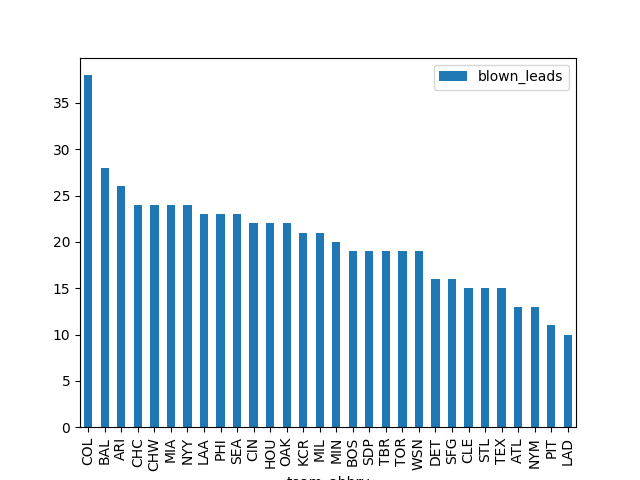
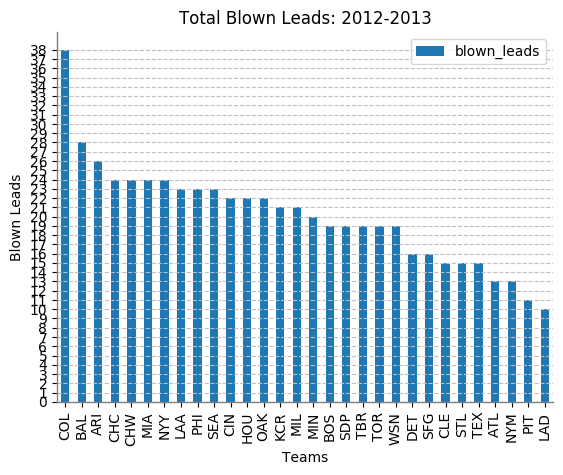
initial work on making charts look good

diff --git a/src/box_score_data_analysis.py b/src/box_score_data_analysis.py
@@ -23,24 +23,43 @@ for team in box_score_data:
             box_score_data_frame = box_score_data_frame.append(temp_data_frame)
 
 # number of total blown leads per team
+seasons = box_score_data_frame['season'].unique()
 aggregation_function = {'blown_leads': 'sum'}
+
 blown_leads_total_data = box_score_data_frame.groupby('team_abbrv').aggregate(aggregation_function)
 blown_leads_total_data = blown_leads_total_data.sort_values(by=['blown_leads', 'team_abbrv'], ascending=[False, True])
-blown_leads_total_data.plot.bar()
-plt.savefig('results/blown_leads_total_data_bar_chart.png')
 
+
+blown_leads_total_data_plot = blown_leads_total_data.plot(kind='bar')
+y_ticks = [tick for tick in range((blown_leads_total_data['blown_leads'].max()) + 1)]
+blown_leads_total_data_plot.spines['right'].set_visible(False)
+blown_leads_total_data_plot.spines['top'].set_visible(False)
+blown_leads_total_data_plot.spines['left'].set_edgecolor('0.5')
+blown_leads_total_data_plot.spines['left'].set_linewidth(1)
+blown_leads_total_data_plot.spines['bottom'].set_edgecolor('0.5')
+blown_leads_total_data_plot.spines['bottom'].set_linewidth(1)
+plt.title(f'Total Blown Leads: {seasons[0]}-{seasons[-1]}')
+plt.xlabel('Teams')
+plt.ylabel('Blown Leads')
+plt.yticks(y_ticks)
+plt.grid(True, color='0.75', linestyle='--', which='both', axis='y')
+plt.savefig('results/blown_leads_total_data_bar_chart.png', bbox_inches='tight')
+
+# TODOTODOTODO
 # number of total blown leads per team per season
 seasons = box_score_data_frame['season'].unique()
-blown_leads_all_seasons = pd.DataFrame()
+blown_leads_all_seasons_data = pd.DataFrame()
 
 for season in seasons:
     blown_leads_single_season = box_score_data_frame.where(box_score_data_frame['season'] == season).dropna()
     blown_leads_single_season['team_abbrv'] = blown_leads_single_season['team_abbrv'].apply(lambda x: f'{x}_{season}')
     aggregation_function = {'blown_leads': 'sum'}
     blown_leads_single_season = blown_leads_single_season.groupby('team_abbrv').aggregate(aggregation_function)
-    blown_leads_all_seasons = blown_leads_all_seasons.append(blown_leads_single_season)
-blown_leads_all_seasons = blown_leads_all_seasons.sort_values(by=['blown_leads', 'team_abbrv'], ascending=[False, True])
-blown_leads_all_seasons.plot.bar()
+    blown_leads_all_seasons_data = blown_leads_all_seasons_data.append(blown_leads_single_season)
+
+blown_leads_all_seasons_data = blown_leads_all_seasons_data.sort_values(by=['blown_leads', 'team_abbrv'], ascending=[False, True])
+blown_leads_all_seasons_data_plot = blown_leads_all_seasons_data.plot(kind='bar')
+# blown_leads_all_seasons_data_plot = blown_leads_all_seasons_data.iloc[0:50].plot(kind='bar')
 plt.savefig('results/blown_leads_all_seasons_bar.png')
 
 # range of blown leads for the league (with team id)
@@ -72,43 +91,82 @@ blown_leads_all_seasons_dict = {}
 blown_leads_all_seasons_dict['mean'] = blown_leads_total_data['blown_leads'].mean()
 blown_leads_all_seasons_dict['mode'] = blown_leads_total_data['blown_leads'].mode()[0]
 blown_leads_all_seasons_dict['median'] = blown_leads_total_data['blown_leads'].median()
-blown_leads_total_data.plot.box()
+blown_leads_total_data_plot = blown_leads_total_data.plot(kind='box')
+y_ticks = [tick for tick in range((blown_leads_total_data['blown_leads'].max()) + 1)]
+blown_leads_total_data_plot.spines['right'].set_visible(False)
+blown_leads_total_data_plot.spines['top'].set_visible(False)
+blown_leads_total_data_plot.spines['left'].set_edgecolor('0.5')
+blown_leads_total_data_plot.spines['left'].set_linewidth(1)
+blown_leads_total_data_plot.spines['bottom'].set_edgecolor('0.5')
+blown_leads_total_data_plot.spines['bottom'].set_linewidth(1)
+plt.title(f'Total Blown Leads: {seasons[0]}-{seasons[-1]}')
+plt.xlabel('All Teams')
+# hide the x tick label
+blown_leads_total_data_plot.set_xticklabels('')
+plt.ylabel('Blown Leads')
+plt.yticks(y_ticks)
+plt.grid(True, color='0.75', linestyle='--', which='both', axis='y')
 plt.savefig('results/blown_leads_total_data_box_plot.png')
 
 # mean, median, mode, range of blown leads for the league per season
-seasons = box_score_data_frame['season'].unique()
+seasons = list(box_score_data_frame['season'].unique())
 teams = box_score_data_frame['team_abbrv'].unique()
-blown_leads_per_season_box_plot_data = pd.DataFrame(index=teams)
+blown_leads_per_season_data = pd.DataFrame(index=teams)
 blown_leads_per_season_dict = {}
 
 for season in seasons:
     # dataframe stuff
-    blown_leads_single_season_box_plot_data = box_score_data_frame.where(box_score_data_frame['season'] == season).dropna()
+    blown_leads_single_season_data = box_score_data_frame.where(box_score_data_frame['season'] == season).dropna()
     aggregation_function = {'blown_leads': 'sum'}
-    blown_leads_single_season_box_plot_data = blown_leads_single_season_box_plot_data.groupby('team_abbrv').aggregate(aggregation_function)
-    blown_leads_single_season_box_plot_data = blown_leads_single_season_box_plot_data.rename(columns={'blown_leads': f'blown_leads_{season}'})
-    blown_leads_per_season_box_plot_data = blown_leads_per_season_box_plot_data.merge(blown_leads_single_season_box_plot_data, left_index=True, right_index=True)
+    blown_leads_single_season_data = blown_leads_single_season_data.groupby('team_abbrv').aggregate(aggregation_function)
+    blown_leads_single_season_data = blown_leads_single_season_data.rename(columns={'blown_leads': f'Blown Leads {season}'})
+    blown_leads_per_season_data = blown_leads_per_season_data.merge(blown_leads_single_season_data, left_index=True, right_index=True)
 
     # stats dict stuff
     season_stats_dict = {}
-    mean_blown_leads = blown_leads_single_season_box_plot_data[f'blown_leads_{season}'].mean()
-    mode_blown_leads = blown_leads_single_season_box_plot_data[f'blown_leads_{season}'].mode()[0]
-    median_blown_leads = blown_leads_single_season_box_plot_data[f'blown_leads_{season}'].median()
+    mean_blown_leads = blown_leads_single_season_data[f'Blown Leads {season}'].mean()
+    mode_blown_leads = blown_leads_single_season_data[f'Blown Leads {season}'].mode()[0]
+    median_blown_leads = blown_leads_single_season_data[f'Blown Leads {season}'].median()
     season_stats_dict['mean'] = mean_blown_leads
     season_stats_dict['mode'] = mode_blown_leads
     season_stats_dict['median'] = median_blown_leads
     blown_leads_per_season_dict[season] = season_stats_dict
 
-blown_leads_per_season_box_plot_data.plot.box()
+blown_leads_per_season_data_plot = blown_leads_per_season_data.plot(kind='box')
+blown_leads_per_season_data_plot.spines['right'].set_visible(False)
+blown_leads_per_season_data_plot.spines['top'].set_visible(False)
+blown_leads_per_season_data_plot.spines['left'].set_edgecolor('0.5')
+blown_leads_per_season_data_plot.spines['left'].set_linewidth(1)
+blown_leads_per_season_data_plot.spines['bottom'].set_edgecolor('0.5')
+blown_leads_per_season_data_plot.spines['bottom'].set_linewidth(1)
+plt.title(f'Total Blown Leads for each Season: {seasons[0]}-{seasons[-1]}')
+plt.xlabel('Seasons')
+blown_leads_per_season_data_plot.set_xticklabels(seasons)
+plt.ylabel('Blown Leads')
+plt.yticks(y_ticks)
+plt.grid(True, color='0.75', linestyle='--', which='both', axis='y')
 plt.savefig('results/blown_leads_per_season_box_plot.png')
 
-# mean, median, mode, range of of blown leads for STL
-stl_blown_leads_plot_data = pd.DataFrame(blown_leads_per_season_box_plot_data.loc['STL'])
-stl_blown_leads_plot_data.plot.box()
+# mean, median, mode, range of blown leads for STL
+stl_blown_leads_data = pd.DataFrame(blown_leads_per_season_data.loc['STL'])
+stl_blown_leads_data_plot = stl_blown_leads_data.plot(kind='box')
+
+stl_blown_leads_data_plot.spines['right'].set_visible(False)
+stl_blown_leads_data_plot.spines['top'].set_visible(False)
+stl_blown_leads_data_plot.spines['left'].set_edgecolor('0.5')
+stl_blown_leads_data_plot.spines['left'].set_linewidth(1)
+stl_blown_leads_data_plot.spines['bottom'].set_edgecolor('0.5')
+stl_blown_leads_data_plot.spines['bottom'].set_linewidth(1)
+plt.title(f'Total Blown Leads for the St. Louis Cardinals: {seasons[0]}-{seasons[-1]}')
+plt.xlabel('STL')
+stl_blown_leads_data_plot.set_xticklabels('')
+plt.ylabel('Blown Leads')
+plt.yticks(y_ticks)
+plt.grid(True, color='0.75', linestyle='--', which='both', axis='y')
 plt.savefig('results/stl_blown_leads.png')
 
 stl_blown_leads_stats_dict = {}
-stl_blown_leads = blown_leads_per_season_box_plot_data.loc['STL']
+stl_blown_leads = blown_leads_per_season_data.loc['STL']
 
 blown_leads_max = stl_blown_leads.max()
 blown_leads_max_season = stl_blown_leads.idxmax()

diff --git a/README.md b/README.md
@@ -6,7 +6,9 @@ make graphs
 remove the redundant part from the box score object (it splits all the info for the box score up, and then stores the raw [not different, just combined into one dict] data too)
 Run with medium data
 edit report to fix bugs
-make graphs good
+make graphs good (fix the bar chart with data for every team for each season (consider showing top 50, or find a way to make it use dots and not bars) 
+                  Make the axis labels bigger than the tick labels, consider changing font, title size, font color, y axis label orientation (horizotal), etc.
+                  Run with the medium data to make sure everything looks ok)
 Clean code
 Test again with medium data
 refine
